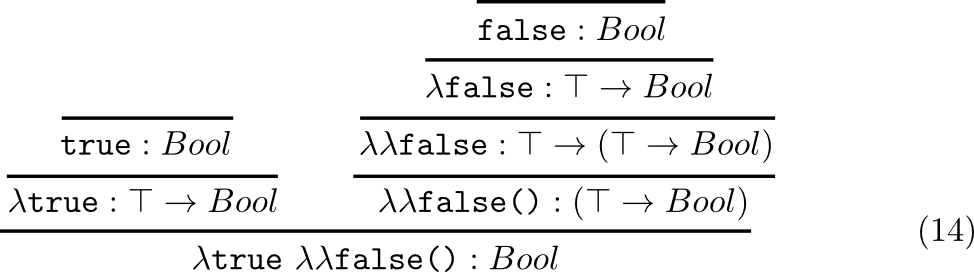
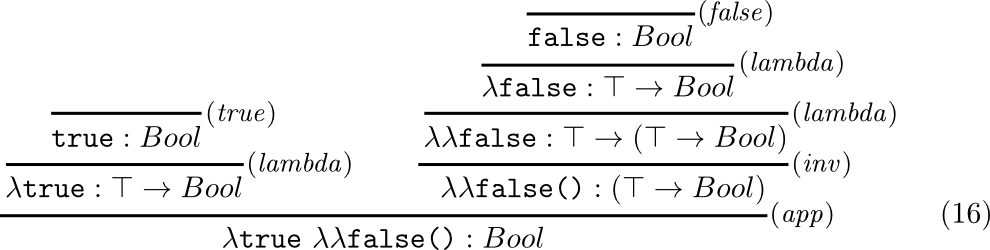
added jsconfeu preso, continued work on coffeescript

diff --git a/_posts/2012-08-26-presentation-faster-javascript-through-category-theory.html b/_posts/2012-08-26-presentation-faster-javascript-through-category-theory.html
@@ -12,8 +12,11 @@ published: true
 meta:
   _edit_last: "1"
 ---
+<b>Update</b> My presentation of the revised material from JSCONFEU 2012 has been posted. Thanks again the <a href="http://twitter.com/jsconfeu">@jsconfeu</a> crew for puting on one of the best conferences I've yet been to.
 
-<b>Update</b> My presentation of the same material at JQCON 2012 was published today. Thanks again to the good folks from <a href="http://twitter.com/confreaks">@confreaks</a> for all the hard work they do.
+<iframe width="640" height="360" src="http://www.youtube.com/embed/PtD-WKSC6ak" frameborder="0" allowfullscreen></iframe>
+
+<b>Update</b> My presentation of the same material at JQCON 2012 has been posted. Thanks again to the good folks from <a href="http://twitter.com/confreaks">@confreaks</a> for all the hard work they do.
 
 <iframe width="640" height="360" src="http://www.youtube.com/embed/u-_lZ2G82Rk" frameborder="0" allowfullscreen></iframe>
 

diff --git a/_diagrams/coffee-script-fix.tex b/_diagrams/coffee-script-fix.tex
@@ -5,6 +5,9 @@
 \usepackage{syntax}
 \usepackage{trfrac}
 
+\newcommand{\rulelabel}[1] {
+\small(\emph{#1})
+}
 \renewcommand{\syntleft}{\normalfont\itshape}
 \renewcommand{\syntright}{}
 
@@ -50,15 +53,15 @@
 \section{Evaluation Rules/Relation}
 
 \begin{equation}
-\lambda t \lit*{()} \rightarrow  t
+\lambda t \lit*{()} \rightarrow  t \quad \rulelabel{e-app}
 \end{equation}
 
 \begin{equation}
-\lambda t \  v  \rightarrow  t
+\lambda t_{1} \ t_{2}  \rightarrow  t_{1} \quad \rulelabel{e-inv}
 \end{equation}
 
 \begin{equation}
-\trfrac{
+\trfrac[\quad \rulelabel{e-value}]{
    t_{2}  \rightarrow  t_{2}'
 }{
   \lambda t_{1} \  t_{2}  \rightarrow \lambda t_{1} \  t_{2}'
@@ -71,47 +74,64 @@
 \section{Type Rules}
 
 \begin{equation}
-\lit*{true}: Bool
+\lit*{true}: Bool \quad \rulelabel{t-true}
 \end{equation}
 
 \begin{equation}
-\lit*{false} : Bool
+\lit*{false} : Bool \quad \rulelabel{t-false}
 \end{equation}
 
 \begin{equation}
-\frac{t : T}{ \lambda t : \top \rightarrow T}
+\trfrac[\quad\rulelabel{t-lambda}]{t : T}{ \lambda t : \top \rightarrow T}
 \end{equation}
 
 \begin{equation}
-\dfrac{\lambda t : \top \rightarrow T}{\lambda t \lit*{()}: T}
+\trfrac[\quad\rulelabel{t-inv}]{\lambda t : \top \rightarrow T}{\lambda t \lit*{()}: T}
 \end{equation}
 
 \begin{equation}
-\frac{ \lambda t_{1}  : \top \rightarrow T_{1} \ \ \  t_{2}  : T_{2} }{\lambda t_{1} \  t_{2}  : T_{1}}
+\trfrac[\quad\rulelabel{t-app}]{ \lambda t_{1}  : \top \rightarrow T_{1} \ \ \  t_{2}  : T_{2} }{\lambda t_{1} \  t_{2}  : T_{1}}
 \end{equation}
 
 \section{Type Derivations}
 
 \begin{equation}
-\trfrac{
-  \trfrac{}{\lit*{true} : Bool}
+\trfrac[\rulelabel{t-lambda}]{
+  \trfrac[\rulelabel{t-true}]{}{\lit*{true} : Bool}
 }{
    \lambda \lit*{true} : \top \rightarrow Bool
 }
 \end{equation}
 
 \begin{equation}
-\trfrac{
-  \trfrac{
-    \trfrac{}{\lit*{true} : Bool}
+\trfrac[\rulelabel{t-true}]{}{\lit*{true} : Bool}
+\quad \Leftarrow \quad
+\lit*{true}: Bool \quad \rulelabel{t-true}
+\end{equation}
+
+\begin{equation}
+\trfrac[\rulelabel{t-lambda}]{
+  \trfrac[\rulelabel{t-true}]{}{\lit*{true} : Bool}
+}{
+   \lambda \lit*{true} : \top \rightarrow Bool
+}
+\quad \Leftarrow \quad
+\trfrac[\rulelabel{t-lambda}]{t : T}{ \lambda t : \top \rightarrow T}
+\end{equation}
+
+
+\begin{equation}
+\trfrac[\rulelabel{t-app}]{
+  \trfrac[\rulelabel{t-lambda}]{
+    \trfrac[\rulelabel{t-true}]{}{\lit*{true} : Bool}
   }{
      \lambda \lit*{true}  : \top \rightarrow Bool
   }
   \qquad
-  \trfrac{
-    \trfrac{
-      \trfrac{
-        \trfrac{}{\lit*{false} : Bool}
+  \trfrac[\rulelabel{t-inv}]{
+    \trfrac[\rulelabel{t-lambda}]{
+      \trfrac[\rulelabel{t-lambda}]{
+        \trfrac[\rulelabel{t-false}]{}{\lit*{false} : Bool}
       }{
          \lambda \lit*{false}  : \top \rightarrow Bool
       }
@@ -126,19 +146,21 @@
 }
 \end{equation}
 
+\newpage
+
 \begin{equation}
-  \trfrac{
-    \trfac{}{\lambda \lit*{true} \lit*{()} \right \rightarrow \lit*{true}}
-  }{
-    \lambda \lit*{true} \lit*{()} \ \lambda \lit*{false} \rightarrow \lit*{true} \ \lambda \lit*{false}
-  }
+\trfrac[\ \small{(\text{??})}]{
+  \trfrac[\rulelabel{e-inv}]{}{\lambda \lit*{true} \lit*{()} \right \rightarrow \lit*{true}}
+}{
+  \lambda \lit*{true} \lit*{()} \ \lambda \lit*{false} \rightarrow \ ??
+}
 \end{equation}
 
 \begin{equation}
-  \trfrac{
-    \trfrac{
-      \trfrac{
-        \trfrac{}{\lit*{true} : Bool}
+  \trfrac[\ \small{(\text{??})}]{
+    \trfrac[\rulelabel{t-inv}]{
+      \trfrac[\rulelabel{t-lambda}]{
+        \trfrac[\rulelabel{t-true}]{}{\lit*{true} : Bool}
       }{
          \lambda \lit*{true} : \top \rightarrow Bool
       }
@@ -146,14 +168,18 @@
        \lambda \lit*{true}  \lit*{()} : Bool
     }
     \qquad
-    \trfrac{
-      \trfrac{}{\lit*{false} : Bool}
+    \trfrac[\rulelabel{t-lambda}]{
+      \trfrac[\rulelabel{t-false}]{}{\lit*{false} : Bool}
     }{
        \lambda \lit*{false} : \top \rightarrow Bool
     }
   }{
      \lambda \lit*{true}  \lit*{()} \ \lambda \lit*{false} : \ ??
   }
+\end{equation}
+
+\begin{equation}
+  \frac{\text{lev}(a, b)}{\text{max}(\text{len}(a), \text{len}(b))}
 \end{equation}
 
 

diff --git a/_posts/2012-10-09-fixing-coffeescripts-ambiguities-with-operational-semantics.md b/_posts/2012-10-09-fixing-coffeescripts-ambiguities-with-operational-semantics.md
@@ -7,7 +7,7 @@ tags:
 - math
 status: draft
 type: post
-published: true
+published: false
 meta:
   _edit_last: "1"
 ---
@@ -60,9 +60,9 @@ show basic type information applied, including type rules
 
 ## CoffeeScript Grammar
 
-You might consider this a problem with the grammar/parser and not the evaluation result. That is, maybe it shouldn't allow both lambda forms as method/function arguments, but because both forms are valid in the current parser implementation it's only an issue when evaluation takes place. Moreover it's only an *obvious* issue when the return type of `doSomething` doesn't allow for invocation. In an ideal world the author would arrive at these conclusions early during the process of creating the language grammar, and it might be interesting to use the formalism of operational semantics to help "boil down" the way these terms can be evaluated, hopefully revealing the ambiguity.
+You might consider this a problem with the grammar/parser and not the evaluation result. That is, maybe it shouldn't allow both lambda forms as method/function arguments, but because both forms are valid in the current parser implementation it's only an issue when evaluation takes place. Moreover it's only an *obvious* issue when the return type of `doSomething` doesn't allow for invocation. In an ideal world the author would arrive at these conclusions early during the process of creating the language. Creating a subset of CoffeeScript including the grammar, evaluation rules, and some simple types should help in clarifying the issue and will hopefully present a way to avoid it all together.
 
-Creating a subset of CoffeeScript including the grammar, evaluation rules, and some simple types as though we were designing the language should be illustrative. In the interest of keeping this post semi-sane in length the subset will be the minimum necessary to reproduce the aformentioned ambiguity. Returning to the original example, the overhead of assignment and identifiers can be avoided by using lamda expressions directly:
+In the interest of keeping this post a semi-digestable length the subset will be the minimum necessary to reproduce the aformentioned ambiguity. In the original example, the overhead of assignment and identifiers can be avoided by using lamda expressions directly:
 
 ```coffeescript
 (-> true) () ->  false
@@ -86,9 +86,7 @@ Which of course translates into JavaScript similarly to the original example:
 // !!! => true(function(){ return false; });
 ```
 
-It's interesting to note that neither case makes it visually obvious there's a problem.
-
-Having identified the subset of CoffeeScript necessary for reproducing the original issue, we can begin with a precise definiton of terms in the form of a language grammar.
+Here the use of atomic boolean values alleviates the need for arguments in the lambda syntax. Again, simplicity in reproducing the issue is preferred for the sake of brevity. Having identified the subset of CoffeeScript necessary for reproducing the original issue, we can begin with a precise definiton of terms in the form of a language grammar.
 
 <div class="center">
   <img src="/assets/images/diagrams/cs-grammar.png"></img>
@@ -185,7 +183,7 @@ Equation 11 is the type rule for lambda applications such as `(-> true) false`. 
 
 ## Type Rule Stacking
 
-This notation makes it easy to establish the type of a term by stacking the type rules on one another. For example:
+This notation makes it easy to establish the type of a term by stacking the type rules on one another. Taking a very timple example, some diagrams will illustrate how this works:
 
 ```coffeescript
 (-> true)
@@ -195,7 +193,7 @@ This notation makes it easy to establish the type of a term by stacking the type
   <img src="/assets/images/diagrams/cs-type-derivation-simple.png"></img>
 </div>
 
-Beginning with the most basic type rule for one of the values `true`, which lacks a premise, the stack expands outward from the subterm to establish the parent term's type. This stacking is referred to as a derevation tree. Taking the more complex term from earlier it's clear why:
+Equation 13 is the stack, a derivation tree. It explains how the reader can derive the type at the bottom from it's subterms. Starting with equation 14, the subterm `true` is typed by the type rule *true*. That can then be "stacked" by using it to replace the premise of type rule *lambda* in equation 15. The type derivation expands from the subterm to establish each subsequent parent term's type. Make sure to note that type derivations are never really accompanied by the full form of the type rules in equations (just the labels like *lambda* and *true*) but it's helpful here for illustration here. Taking the more complex term from earlier it's clear why they are ommited:
 
 ```coffeescript
 (-> true) (-> (-> false))()
@@ -205,9 +203,35 @@ Beginning with the most basic type rule for one of the values `true`, which lack
   <img src="/assets/images/diagrams/cs-type-derivation-complex.png"></img>
 </div>
 
-Since there are two subterms involved in application, each branch extends upward until it reaches the atomic value types `true : Bool` and `false : Bool`.
+Since there are two subterms involved in application, each branch extends upward until it reaches the atomic value types `true : Bool` and `false : Bool`. The subterm on the left is identical to equation 13. On the right, the nested lambdas and invocation make for a taller stack of type rules to reach the atomic `false`.
 
-At this point the definition of this CoffeeScript subset is complete enough to describe the original issue in terms of a typing problem. That is, just using the inference rules defined earlier, it's clear that the evaluation of `(-> true)() ->false` "gets stuck" from the following derivation tree
+## Not Quite There
+
+At this point the CoffeeScript subset has enough definition to describe the original issue in terms of evaluation or typing. That is, using the inference rules it's clear that the evaluation of `(-> true)() -> false` "gets stuck" from the following derivation tree:
+
+<div class="center">
+  <img src="/assets/images/diagrams/cs-eval-derivation-original-issue.png"></img>
+</div>
+
+After the invocation of the left lambda term the evaluation gets stuck because the right lambda term can't be evaluated any further and no rule exists to handle the application of the term `true` to `(-> false)`. Additionally, a derivation tree based on the typing rules highlight that the term is untypable:
+
+<div class="center">
+  <img src="/assets/images/diagrams/cs-type-derivation-original-issue.png"></img>
+</div>
+
+Once the derivation tree reaches the outermost term it breaks because once again we have no type definition for the application of `true` to a lambda term like `(-> false)`.
+
+So what's been gained thusfar by applying the formalism of operational semantics and type derivations? It's clear that types, inferred or otherwise, would prevent at least the original case `(-> true)() -> false` as you can see from the type derivation. Unfortunately type derivation or type inference would only alert the end user and not an author in the middle of creating a language and then only if the result of the leftmost lambda term is not a lambda term. That is, if the leftmost lambda term evaluates to a lambda term the the whole thing is well typed. This means type information/derivations alone can't help identify this syntactic ambiguity.
+
+## Detecting Ambiguity
+
+Still, there is clearly an important difference here. Even if the two terms will *not* result in a type error under evaluation (eg, `(-> (-> true))() -> false`, `(-> (-> true)) () -> false`), they have different type derivations. The fact that the syntactic difference is seemingly very small in spite of the fact that the type derivation is different may suggest a way to detect ambiguities.
+
+First, some formulation of syntactic difference is necessary so that it can be measured. Since this particular problem is small the definition can start out simple. Taking the Levenshtein Distance as a function of string size should work for a start. For the syntax/string representation of two terms `a` and `b`:
+
+insert image
+
+*For two terms with inconsistent types, we say they are more or less ambigous based on the calculation Levenshtein Distance/max(Length<sub>1</sub>, Length<sub>2</sub>)*.
 
 # footnotes
 
